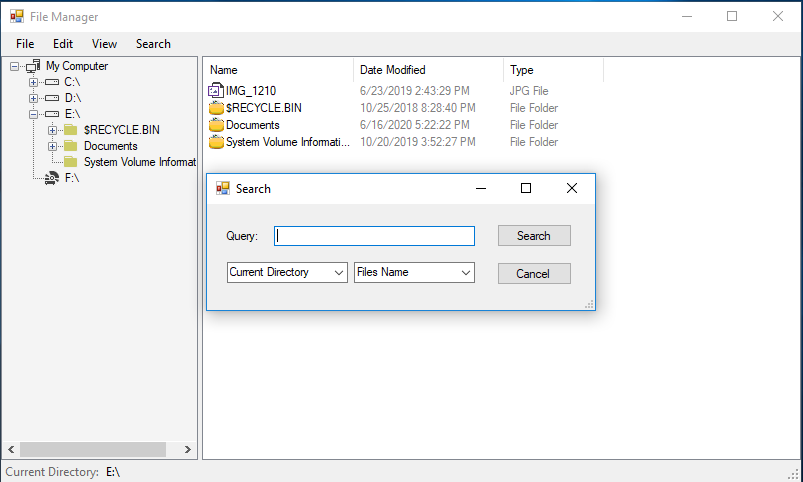
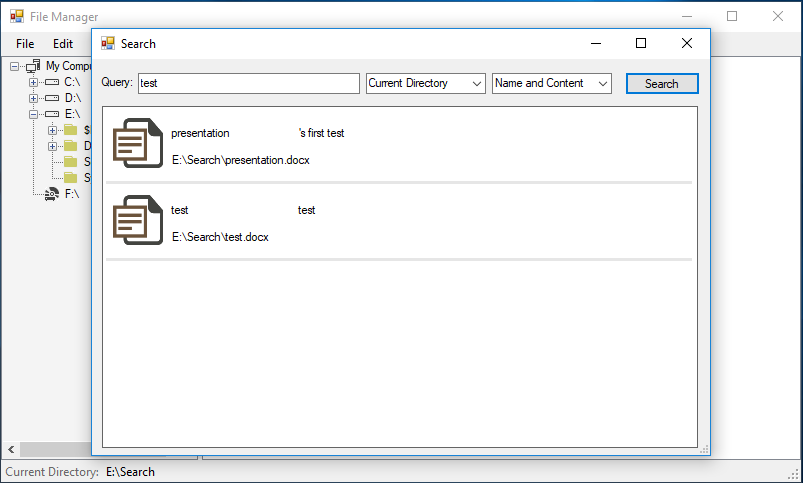
added a control to show the search results

Changed region(s): [[0.0, 0.0311, 1.0, 1.0], [0.5604, 0.5602, 0.5915, 0.5913], [0.5604, 0.4668, 0.5915, 0.4979]]

diff --git a/SearchDialog.Designer.cs b/SearchDialog.Designer.cs
@@ -33,20 +33,23 @@
             this.DirectoryComboBox = new System.Windows.Forms.ComboBox();
             this.NameContentComboBox = new System.Windows.Forms.ComboBox();
             this.Search = new System.Windows.Forms.Button();
-            this.Cancel = new System.Windows.Forms.Button();
+            this.ResultPanel = new System.Windows.Forms.FlowLayoutPanel();
             this.SuspendLayout();
             // 
             // SearchQuery
             // 
-            this.SearchQuery.Location = new System.Drawing.Point(67, 22);
+            this.SearchQuery.Anchor = ((System.Windows.Forms.AnchorStyles)(((System.Windows.Forms.AnchorStyles.Top | System.Windows.Forms.AnchorStyles.Left) 
+            | System.Windows.Forms.AnchorStyles.Right)));
+            this.SearchQuery.Location = new System.Drawing.Point(46, 14);
+            this.SearchQuery.Multiline = true;
             this.SearchQuery.Name = "SearchQuery";
-            this.SearchQuery.Size = new System.Drawing.Size(201, 20);
+            this.SearchQuery.Size = new System.Drawing.Size(222, 21);
             this.SearchQuery.TabIndex = 0;
             // 
             // QueryLabel
             // 
             this.QueryLabel.AutoSize = true;
-            this.QueryLabel.Location = new System.Drawing.Point(17, 25);
+            this.QueryLabel.Location = new System.Drawing.Point(7, 16);
             this.QueryLabel.Name = "QueryLabel";
             this.QueryLabel.Size = new System.Drawing.Size(38, 13);
             this.QueryLabel.TabIndex = 1;
@@ -54,31 +57,34 @@
             // 
             // DirectoryComboBox
             // 
+            this.DirectoryComboBox.Anchor = ((System.Windows.Forms.AnchorStyles)((System.Windows.Forms.AnchorStyles.Top | System.Windows.Forms.AnchorStyles.Right)));
             this.DirectoryComboBox.FormattingEnabled = true;
             this.DirectoryComboBox.Items.AddRange(new object[] {
             "Current Directory",
             "All Sub Directories",
             "This PC"});
-            this.DirectoryComboBox.Location = new System.Drawing.Point(20, 58);
+            this.DirectoryComboBox.Location = new System.Drawing.Point(274, 14);
             this.DirectoryComboBox.Name = "DirectoryComboBox";
-            this.DirectoryComboBox.Size = new System.Drawing.Size(121, 21);
+            this.DirectoryComboBox.Size = new System.Drawing.Size(120, 21);
             this.DirectoryComboBox.TabIndex = 2;
             // 
             // NameContentComboBox
             // 
+            this.NameContentComboBox.Anchor = ((System.Windows.Forms.AnchorStyles)((System.Windows.Forms.AnchorStyles.Top | System.Windows.Forms.AnchorStyles.Right)));
             this.NameContentComboBox.FormattingEnabled = true;
             this.NameContentComboBox.Items.AddRange(new object[] {
-            "Files Name",
-            "Files Content",
-            "Both"});
-            this.NameContentComboBox.Location = new System.Drawing.Point(147, 58);
+            "Name",
+            "Content",
+            "Name and Content"});
+            this.NameContentComboBox.Location = new System.Drawing.Point(400, 14);
             this.NameContentComboBox.Name = "NameContentComboBox";
-            this.NameContentComboBox.Size = new System.Drawing.Size(121, 21);
+            this.NameContentComboBox.Size = new System.Drawing.Size(120, 21);
             this.NameContentComboBox.TabIndex = 3;
             // 
             // Search
             // 
-            this.Search.Location = new System.Drawing.Point(290, 20);
+            this.Search.Anchor = ((System.Windows.Forms.AnchorStyles)((System.Windows.Forms.AnchorStyles.Top | System.Windows.Forms.AnchorStyles.Right)));
+            this.Search.Location = new System.Drawing.Point(533, 13);
             this.Search.Name = "Search";
             this.Search.Size = new System.Drawing.Size(75, 23);
             this.Search.TabIndex = 4;
@@ -86,22 +92,26 @@
             this.Search.UseVisualStyleBackColor = true;
             this.Search.Click += new System.EventHandler(this.Search_Click);
             // 
-            // Cancel
+            // ResultPanel
             // 
-            this.Cancel.Location = new System.Drawing.Point(290, 58);
-            this.Cancel.Name = "Cancel";
-            this.Cancel.Size = new System.Drawing.Size(75, 23);
-            this.Cancel.TabIndex = 5;
-            this.Cancel.Text = "Cancel";
-            this.Cancel.UseVisualStyleBackColor = true;
-            this.Cancel.Click += new System.EventHandler(this.Cancel_Click);
+            this.ResultPanel.Anchor = ((System.Windows.Forms.AnchorStyles)((((System.Windows.Forms.AnchorStyles.Top | System.Windows.Forms.AnchorStyles.Bottom) 
+            | System.Windows.Forms.AnchorStyles.Left) 
+            | System.Windows.Forms.AnchorStyles.Right)));
+            this.ResultPanel.AutoScroll = true;
+            this.ResultPanel.BackColor = System.Drawing.SystemColors.Window;
+            this.ResultPanel.BorderStyle = System.Windows.Forms.BorderStyle.FixedSingle;
+            this.ResultPanel.Location = new System.Drawing.Point(10, 47);
+            this.ResultPanel.Name = "ResultPanel";
+            this.ResultPanel.Size = new System.Drawing.Size(596, 342);
+            this.ResultPanel.TabIndex = 6;
+            this.ResultPanel.Resize += new System.EventHandler(this.ResultPanel_Resize);
             // 
             // SearchDialog
             // 
             this.AutoScaleDimensions = new System.Drawing.SizeF(6F, 13F);
             this.AutoScaleMode = System.Windows.Forms.AutoScaleMode.Font;
-            this.ClientSize = new System.Drawing.Size(388, 106);
-            this.Controls.Add(this.Cancel);
+            this.ClientSize = new System.Drawing.Size(618, 396);
+            this.Controls.Add(this.ResultPanel);
             this.Controls.Add(this.Search);
             this.Controls.Add(this.NameContentComboBox);
             this.Controls.Add(this.DirectoryComboBox);
@@ -110,6 +120,7 @@
             this.Name = "SearchDialog";
             this.StartPosition = System.Windows.Forms.FormStartPosition.CenterParent;
             this.Text = "Search";
+            this.FormClosing += new System.Windows.Forms.FormClosingEventHandler(this.SearchDialog_FormClosing);
             this.ResumeLayout(false);
             this.PerformLayout();
 
@@ -122,6 +133,6 @@
         private System.Windows.Forms.ComboBox DirectoryComboBox;
         private System.Windows.Forms.ComboBox NameContentComboBox;
         private System.Windows.Forms.Button Search;
-        private System.Windows.Forms.Button Cancel;
+        private System.Windows.Forms.FlowLayoutPanel ResultPanel;
     }
 }

diff --git a/SearchDialog.cs b/SearchDialog.cs
@@ -1,5 +1,6 @@
 using DocumentFormat.OpenXml.Packaging;
 using DocumentFormat.OpenXml.Wordprocessing;
+using FileManager.Controls;
 using System;
 using System.Collections.Generic;
 using System.ComponentModel;
@@ -30,7 +31,7 @@ namespace FileManager
             InitializeComponent();
 
             this.DirectoryComboBox.SelectedItem   = this.DirectoryComboBox.Items[0];
-            this.NameContentComboBox.SelectedItem = this.NameContentComboBox.Items[0];
+            this.NameContentComboBox.SelectedItem = this.NameContentComboBox.Items[2];
             this.Results = new List<Result>();
         }
 
@@ -119,20 +120,76 @@ namespace FileManager
             return result;
         }
 
-        private void Cancel_Click(object sender, EventArgs e)
-        {
-            this.Close();
-        }
-
         private void Search_Click(object sender, EventArgs e)
         {
             SearchOption searchOption = (this.DirectoryComboBox.SelectedIndex == 0) ? SearchOption.TopDirectoryOnly : SearchOption.AllDirectories;
-            
+
+            this.ResultPanel.Controls.Clear();
+            Results.Clear();
+
             if (this.DirectoryComboBox.SelectedIndex != 2)
             {
+                if (this.CurrentDirectory == null)
+                    return;
+
                 SearchFiles(CurrentDirectory, searchOption, this.SearchQuery.Text);
                 SearchDirectories(CurrentDirectory, searchOption, this.SearchQuery.Text);
+
+                ShowSearchResults();
             }
+        }
+
+        private void ShowSearchResults()
+        {
+            this.ResultPanel.Controls.Clear();
+
+            foreach (Result result in Results)
+            {
+                SearchResult searchResult = new SearchResult();
+                searchResult.Controls["FileName"].Text = Path.GetFileNameWithoutExtension(result.FilePath);
+                searchResult.Controls["FoundText"].Text = result.FoundText;
+                searchResult.Controls["Path"].Text = result.FilePath;
+                (searchResult.Controls["Picture"] as PictureBox).Image = GetImage(result.FilePath);
+                (searchResult.Controls["Picture"] as PictureBox).SizeMode = GetSizeMode((searchResult.Controls["Picture"] as PictureBox), (searchResult.Controls["Picture"] as PictureBox).Image);
+
+                this.ResultPanel.Controls.Add(searchResult);
+                this.ResultPanel.SetFlowBreak(ResultPanel.Controls[ResultPanel.Controls.Count - 1], true);
+
+                // add separator line
+                Label Line = new Label();
+                Line.Text = string.Empty;
+                Line.AutoSize = false;
+                Line.Height = 3;
+                Line.Width = this.ResultPanel.Size.Width - 10;
+                Line.BackColor = ColorTranslator.FromHtml("#E6E6E6");
+
+                this.ResultPanel.Controls.Add(Line);
+                this.ResultPanel.SetFlowBreak(ResultPanel.Controls[ResultPanel.Controls.Count - 1], true);
+            }
+        }
+
+        private Image GetImage(string path)
+        {
+            return Directory.Exists(path) ? Properties.Resources.Folder : Properties.Resources.Doc;
+        }
+
+        private PictureBoxSizeMode GetSizeMode(PictureBox picture, Image image)
+        {
+            if (image.Width > picture.Width || image.Height > picture.Height)
+                return PictureBoxSizeMode.Zoom;
+            else
+                return PictureBoxSizeMode.CenterImage;
+        }
+
+        private void SearchDialog_FormClosing(object sender, FormClosingEventArgs e)
+        {
+            this.ResultPanel.Controls.Clear();
+            Results.Clear();
+        }
+
+        private void ResultPanel_Resize(object sender, EventArgs e)
+        {
+            ShowSearchResults();
         }
     }
 }

diff --git a/Controls/SearchResult.Designer.cs b/Controls/SearchResult.Designer.cs
@@ -1,0 +1,92 @@
+namespace FileManager.Controls
+{
+    partial class SearchResult
+    {
+        /// <summary> 
+        /// Required designer variable.
+        /// </summary>
+        private System.ComponentModel.IContainer components = null;
+
+        /// <summary> 
+        /// Clean up any resources being used.
+        /// </summary>
+        /// <param name="disposing">true if managed resources should be disposed; otherwise, false.</param>
+        protected override void Dispose(bool disposing)
+        {
+            if (disposing && (components != null))
+            {
+                components.Dispose();
+            }
+            base.Dispose(disposing);
+        }
+
+        #region Component Designer generated code
+
+        /// <summary> 
+        /// Required method for Designer support - do not modify 
+        /// the contents of this method with the code editor.
+        /// </summary>
+        private void InitializeComponent()
+        {
+            this.FoundText = new System.Windows.Forms.Label();
+            this.Picture = new System.Windows.Forms.PictureBox();
+            this.Path = new System.Windows.Forms.Label();
+            this.FileName = new System.Windows.Forms.Label();
+            ((System.ComponentModel.ISupportInitialize)(this.Picture)).BeginInit();
+            this.SuspendLayout();
+            // 
+            // FoundText
+            // 
+            this.FoundText.BackColor = System.Drawing.SystemColors.Window;
+            this.FoundText.Location = new System.Drawing.Point(190, 16);
+            this.FoundText.Name = "FoundText";
+            this.FoundText.Size = new System.Drawing.Size(370, 15);
+            this.FoundText.TabIndex = 11;
+            // 
+            // Picture
+            // 
+            this.Picture.Location = new System.Drawing.Point(7, 8);
+            this.Picture.Name = "Picture";
+            this.Picture.Size = new System.Drawing.Size(50, 50);
+            this.Picture.TabIndex = 8;
+            this.Picture.TabStop = false;
+            // 
+            // Path
+            // 
+            this.Path.BackColor = System.Drawing.SystemColors.Window;
+            this.Path.Location = new System.Drawing.Point(63, 43);
+            this.Path.Name = "Path";
+            this.Path.Size = new System.Drawing.Size(497, 15);
+            this.Path.TabIndex = 10;
+            // 
+            // FileName
+            // 
+            this.FileName.BackColor = System.Drawing.SystemColors.Window;
+            this.FileName.Location = new System.Drawing.Point(63, 16);
+            this.FileName.Name = "FileName";
+            this.FileName.Size = new System.Drawing.Size(100, 15);
+            this.FileName.TabIndex = 9;
+            // 
+            // SearchResult
+            // 
+            this.AutoScaleDimensions = new System.Drawing.SizeF(6F, 13F);
+            this.AutoScaleMode = System.Windows.Forms.AutoScaleMode.Font;
+            this.Controls.Add(this.FoundText);
+            this.Controls.Add(this.Picture);
+            this.Controls.Add(this.Path);
+            this.Controls.Add(this.FileName);
+            this.Name = "SearchResult";
+            this.Size = new System.Drawing.Size(566, 68);
+            ((System.ComponentModel.ISupportInitialize)(this.Picture)).EndInit();
+            this.ResumeLayout(false);
+
+        }
+
+        #endregion
+
+        private System.Windows.Forms.Label FoundText;
+        private System.Windows.Forms.PictureBox Picture;
+        private System.Windows.Forms.Label Path;
+        private System.Windows.Forms.Label FileName;
+    }
+}

diff --git a/Controls/SearchResult.cs b/Controls/SearchResult.cs
@@ -1,0 +1,20 @@
+using System;
+using System.Collections.Generic;
+using System.ComponentModel;
+using System.Drawing;
+using System.Data;
+using System.Linq;
+using System.Text;
+using System.Threading.Tasks;
+using System.Windows.Forms;
+
+namespace FileManager.Controls
+{
+    public partial class SearchResult : UserControl
+    {
+        public SearchResult()
+        {
+            InitializeComponent();
+        }
+    }
+}
